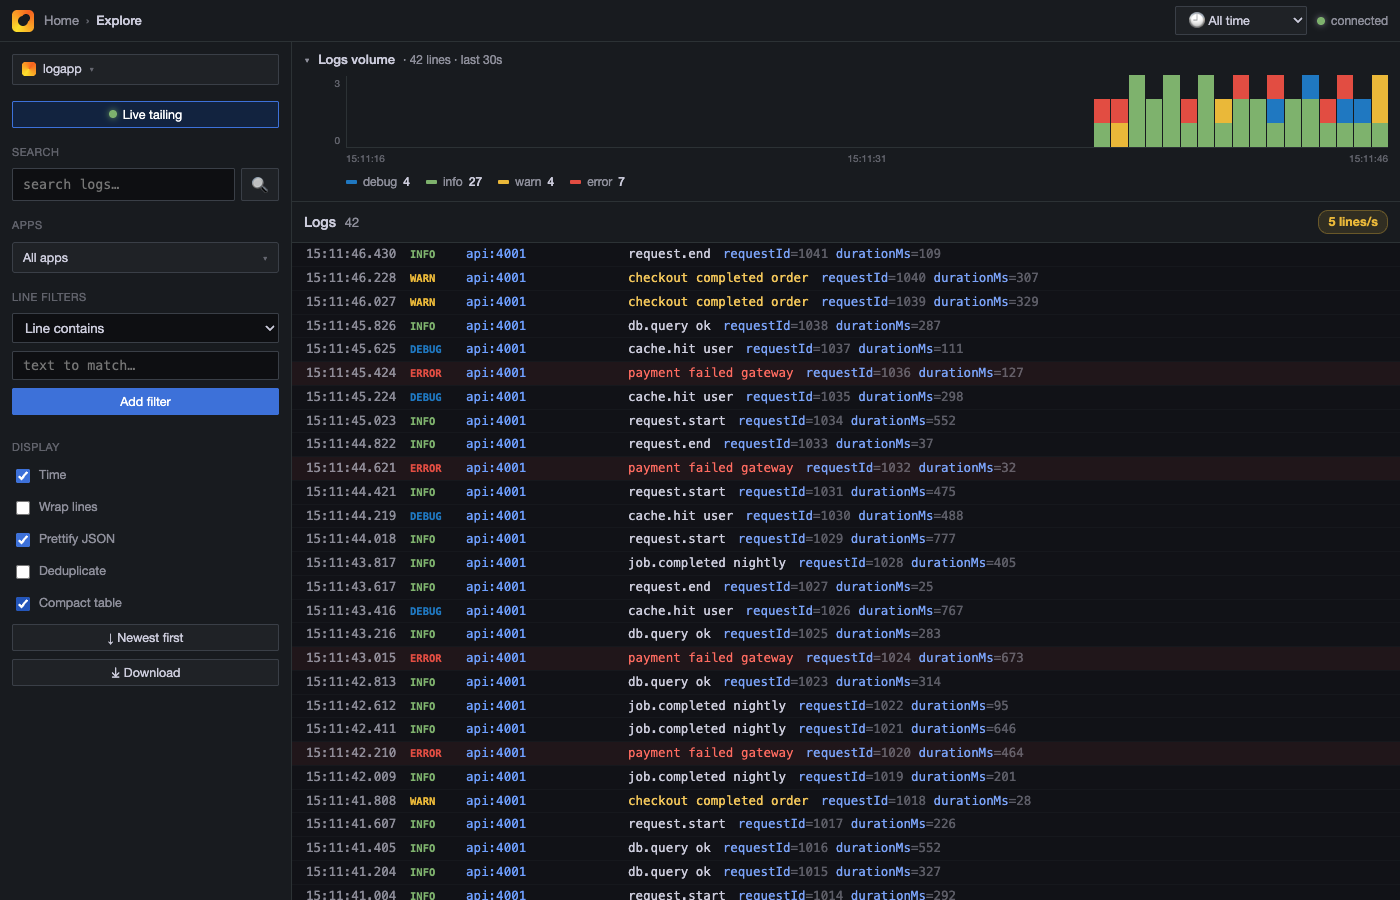
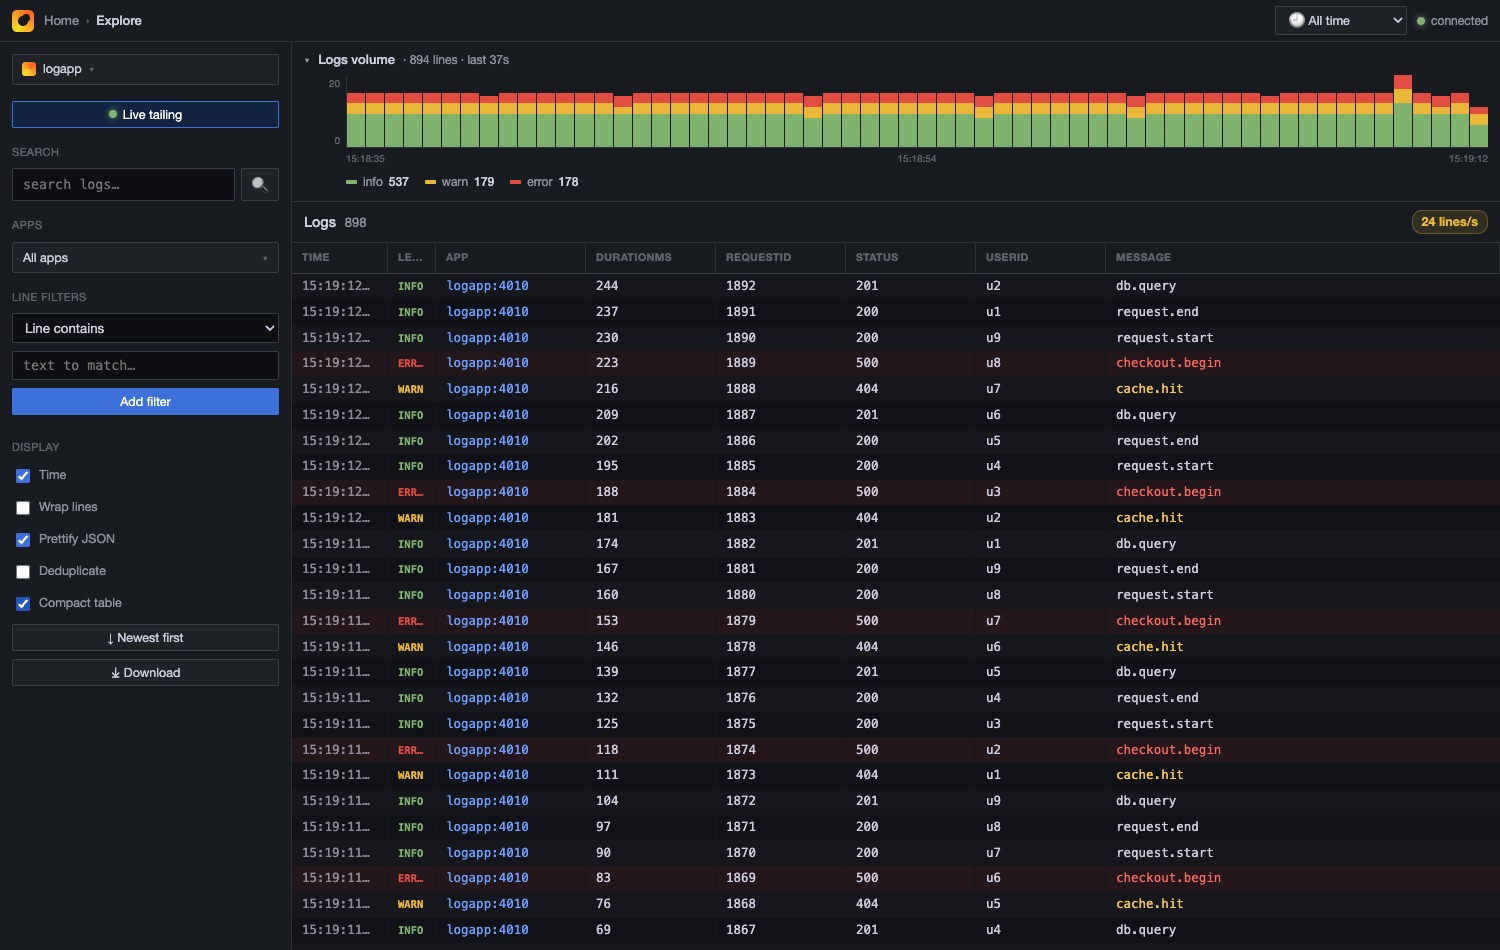
Make Compact view a real columnar table (sticky header + auto columns)
- Compact toggle now renders a proper table like other log viewers: a sticky
  header row, fixed Time / Level / App columns, and the most frequent JSON
  fields auto-promoted to their own aligned columns (grid-template shared by
  header + rows so columns line up pixel-perfect across rows). Message flexes to
  fill; zebra striping, column separators, level colours and search highlight
  carry over. Missing field cells show a dim placeholder.
- compactCols() ranks scalar field keys by frequency (top 5); compactTemplate()
  builds the shared grid template; compactHead() renders the header.

diff --git a/public/index.html b/public/index.html
@@ -180,22 +180,24 @@
     border: 1px solid var(--border2); border-radius: 9px; padding: 0 7px; font-size: 11px; }
   .row.notime { grid-template-columns: 3px auto 1fr; }
   .row.notime .t { display: none; }
-  .crow { display: flex; align-items: baseline; gap: 12px; padding: 2px 14px; border-bottom: 1px solid #16181d;
-    white-space: nowrap; overflow: hidden; font-family: "Roboto Mono", Menlo, monospace; font-size: 12.5px; }
-  .crow:hover { background: var(--hover); }
-  .crow.error { background: rgba(226,77,66,.07); } .crow.error .cmsg { color: #ff6b60; }
+  .chead, .crow { display: grid; grid-template-columns: var(--cols); align-items: baseline; }
+  .chead { position: sticky; top: 0; z-index: 4; background: var(--panel); border-bottom: 1px solid var(--border2); }
+  .chead span { padding: 7px 10px; color: var(--faint); font-size: 10.5px; text-transform: uppercase; letter-spacing: .5px; font-weight: 700; white-space: nowrap; overflow: hidden; text-overflow: ellipsis; border-right: 1px solid var(--border); }
+  .crow { border-bottom: 1px solid #15171c; font-family: "Roboto Mono", Menlo, monospace; font-size: 12.5px; }
+  .crow span { padding: 3px 10px; overflow: hidden; text-overflow: ellipsis; white-space: nowrap; border-right: 1px solid #14161b; }
+  .crow:nth-child(even) { background: rgba(255,255,255,.018); }
+  .crow.error { background: rgba(226,77,66,.09); } .crow.error .cmsg { color: #ff6b60; }
   .crow.warn .cmsg { color: #f2c65a; } .crow.fatal .cmsg { color: #cbb0ff; }
-  .crow .ct { color: var(--weak); width: 92px; flex: none; }
-  .crow.notime .ct { display: none; }
-  .crow .clv { width: 44px; flex: none; font-weight: 700; font-size: 10.5px; }
+  .crow:hover { background: var(--hover); }
+  .crow .ct { color: var(--weak); }
+  .crow .clv { font-weight: 700; font-size: 10.5px; }
   .crow.trace .clv { color: var(--l-trace); } .crow.debug .clv { color: var(--l-debug); }
   .crow.info .clv { color: var(--l-info); } .crow.warn .clv { color: var(--l-warn); }
   .crow.error .clv { color: var(--l-error); } .crow.fatal .clv { color: var(--l-fatal); }
-  .crow .cap { width: 150px; flex: none; color: var(--blue2); overflow: hidden; text-overflow: ellipsis; }
-  .crow .cmsg { flex: 0 1 auto; color: var(--text); overflow: hidden; text-overflow: ellipsis; }
-  .crow .cmsg mark { background: #b9840f; color: #fff; border-radius: 1px; }
-  .crow .cfields { flex: 1; min-width: 0; color: var(--faint); overflow: hidden; text-overflow: ellipsis; }
-  .crow .cfields b { color: #7aa2f7; font-weight: 400; }
+  .crow .cap { color: var(--blue2); }
+  .crow .cfld { color: var(--text); } .crow .cnull { color: var(--faint); }
+  .crow .cmsg { color: var(--text); border-right: none; }
+  .crow mark { background: #b9840f; color: #fff; border-radius: 1px; }
   .crow .dup { background: var(--raised); color: var(--weak); border: 1px solid var(--border2); border-radius: 9px; padding: 0 6px; font-size: 11px; }
   .details { grid-column: 1 / -1; background: #0c0d10; border-top: 1px solid var(--border); padding: 8px 12px 12px 25px; }
   .details .dh { color: var(--weak); font-size: 11px; text-transform: uppercase; letter-spacing: .5px; margin: 4px 0 6px; }
@@ -451,19 +453,47 @@ function rowHtml (ev, dupCount) {
     '<div class="bar"></div>' + t + lv + m + det + '</div>'
 }
 
-function compactRow (ev, dupCount) {
+const COMPACT_SKIP = { level: 1, time: 1, msg: 1, message: 1, service: 1, event: 1, stream: 1 }
+
+function compactCols (out) {
+  const freq = {}
+  out.forEach(([ev]) => {
+    const f = ev.fields; if (!f) return
+    for (const k in f) {
+      if (COMPACT_SKIP[k] || typeof f[k] === 'object' || f[k] === null) continue
+      freq[k] = (freq[k] || 0) + 1
+    }
+  })
+  return Object.keys(freq).sort((a, b) => freq[b] - freq[a] || a.localeCompare(b)).slice(0, 5)
+}
+
+function compactTemplate (cols) {
+  return (showTime ? '96px ' : '') + '48px 150px ' +
+    cols.map(() => 'minmax(70px,130px)').join(' ') + (cols.length ? ' ' : '') + 'minmax(220px,1fr)'
+}
+
+function compactHead (cols) {
+  return '<div class="chead">' + (showTime ? '<span>Time</span>' : '') +
+    '<span>Level</span><span>App</span>' +
+    cols.map((c) => '<span>' + esc(c) + '</span>').join('') +
+    '<span>Message</span></div>'
+}
+
+function compactRow (ev, dupCount, cols) {
   const s = streamState[ev.stream]
   const f = ev.fields || {}
-  const skip = { level: 1, time: 1, msg: 1, message: 1, service: 1, event: 1, stream: 1 }
-  const extra = Object.keys(f).filter((k) => !skip[k] && typeof f[k] !== 'object' && f[k] !== null)
-    .map((k) => '<b>' + esc(k) + '</b>=' + esc(String(f[k]))).join('  ')
-  return '<div class="crow ' + ev.level + (showTime ? '' : ' notime') + '">' +
-    '<span class="ct">' + fmtFull(ev.ts).slice(11) + '</span>' +
-    '<span class="clv">' + ev.level.toUpperCase() + '</span>' +
-    '<span class="cap">' + esc(ev.stream) + (s && s.ports && s.ports.length ? ':' + esc(s.ports.join(',')) : '') + '</span>' +
-    '<span class="cmsg">' + highlight(ev.msg || ev.raw) + (dupCount > 1 ? ' <span class="dup">×' + dupCount + '</span>' : '') + '</span>' +
-    (extra ? '<span class="cfields">' + markTerms(extra) + '</span>' : '') +
-    '</div>'
+  let cells = showTime ? '<span class="ct">' + fmtFull(ev.ts).slice(11) + '</span>' : ''
+  cells += '<span class="clv">' + ev.level.toUpperCase() + '</span>'
+  cells += '<span class="cap" title="' + esc(ev.stream) + '">' + esc(ev.stream) +
+    (s && s.ports && s.ports.length ? ':' + esc(s.ports.join(',')) : '') + '</span>'
+  cells += cols.map((k) => {
+    const has = (k in f) && typeof f[k] !== 'object' && f[k] !== null
+    const v = has ? String(f[k]) : ''
+    return '<span class="cfld" title="' + esc(v) + '">' + (has ? highlight(v) : '<span class="cnull">·</span>') + '</span>'
+  }).join('')
+  cells += '<span class="cmsg" title="' + esc(ev.msg || ev.raw) + '">' + highlight(ev.msg || ev.raw) +
+    (dupCount > 1 ? ' <span class="dup">×' + dupCount + '</span>' : '') + '</span>'
+  return '<div class="crow ' + ev.level + '">' + cells + '</div>'
 }
 
 function render () {
@@ -481,7 +511,15 @@ function render () {
     })
     if (prev) out.push([prev, cnt])
   } else { disp.forEach((ev) => out.push([ev, 1])) }
-  logEl.innerHTML = out.map(([ev, c]) => compact ? compactRow(ev, c) : rowHtml(ev, c)).join('')
+  if (compact) {
+    const cols = compactCols(out)
+    logEl.style.setProperty('--cols', compactTemplate(cols))
+    logEl.classList.add('compactmode')
+    logEl.innerHTML = compactHead(cols) + out.map(([ev, c]) => compactRow(ev, c, cols)).join('')
+  } else {
+    logEl.classList.remove('compactmode')
+    logEl.innerHTML = out.map(([ev, c]) => rowHtml(ev, c)).join('')
+  }
   if (!out.length) {
     emptyEl.innerHTML = searchMode ? 'No matches in history.' : (appFilter ? 'No logs for <b>' + esc(appFilter) + '</b> in this range.' : 'Waiting for logs…')
     logEl.appendChild(emptyEl); emptyEl.style.display = 'block'

diff --git a/README.md b/README.md
@@ -93,7 +93,7 @@ stays fully responsive (~0.4ms). How:
 | Infinite scroll | Scroll toward older logs and older lines are streamed in from disk on demand (`/query`), so you can browse the whole history without loading it all |
 | Time range | Grafana-style picker (Last 5m/10m/15m/30m/1h/3h) + custom From→To; **drag on the histogram** to zoom to a range. All in IST |
 | Pretty JSON | On by default — every line auto-expands to a syntax-highlighted, indented JSON view |
-| Pretty JSON ↔ Compact | Default expanded, syntax-highlighted JSON; a **Compact table** toggle switches to dense one-line rows (`time · level · app:port · msg · fields inline`) |
+| Pretty JSON ↔ Compact | Default expanded, syntax-highlighted JSON; a **Compact table** toggle switches to a real columnar table — sticky header, fixed `Time / Level / App` columns, the most common JSON fields auto-promoted to their own aligned columns (e.g. `requestId`, `durationMs`, `status`), zebra rows, and `Message` flexing to fill. Search highlight + level colours carry over |
 | Wrap / Time / Dedup | Wrap long lines, hide timestamps, collapse consecutive duplicates (`×N`) |
 | Sort / Download | `Newest first` / `Oldest first`; save the buffer as a `.log` |
 
